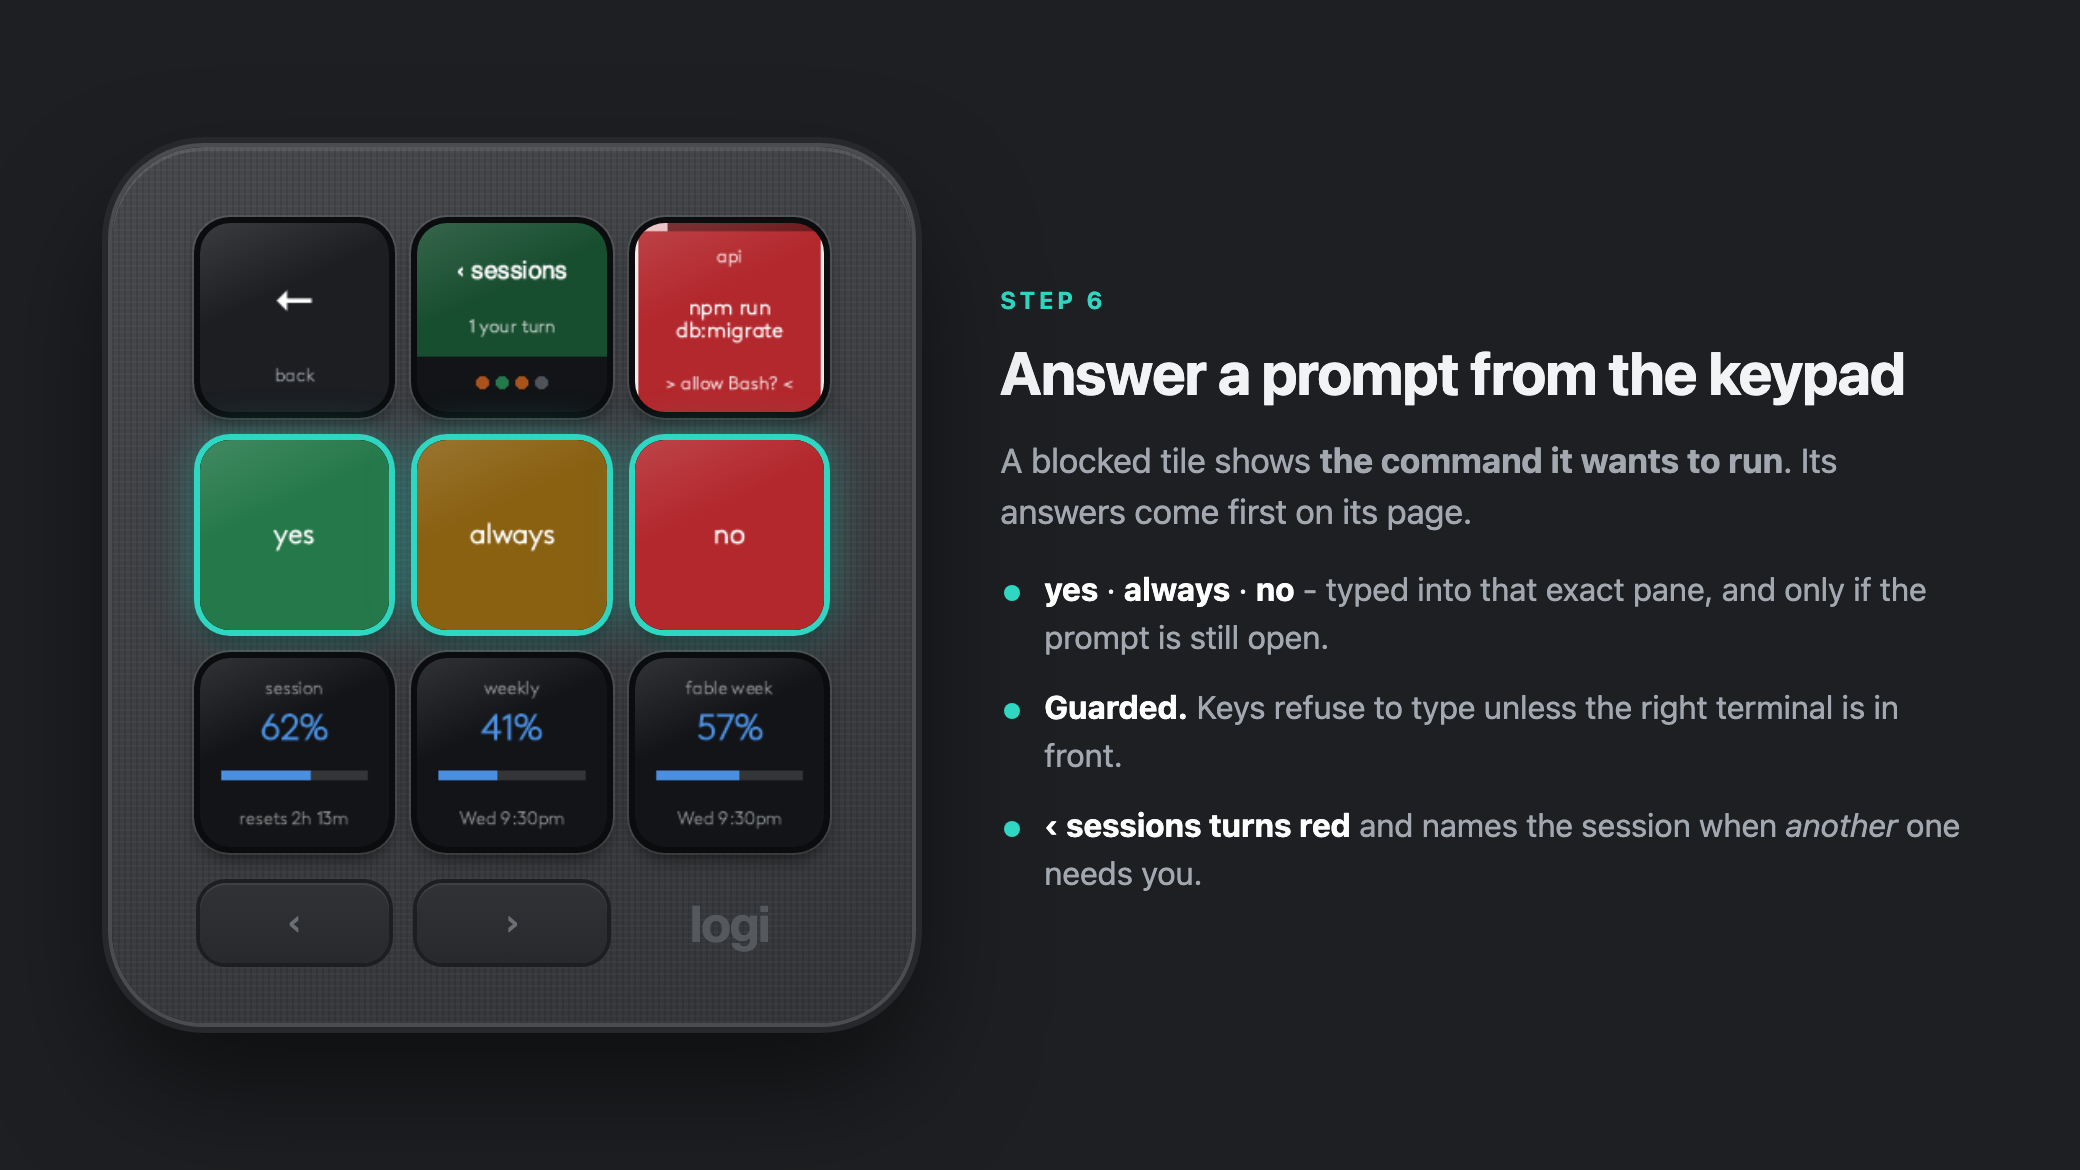
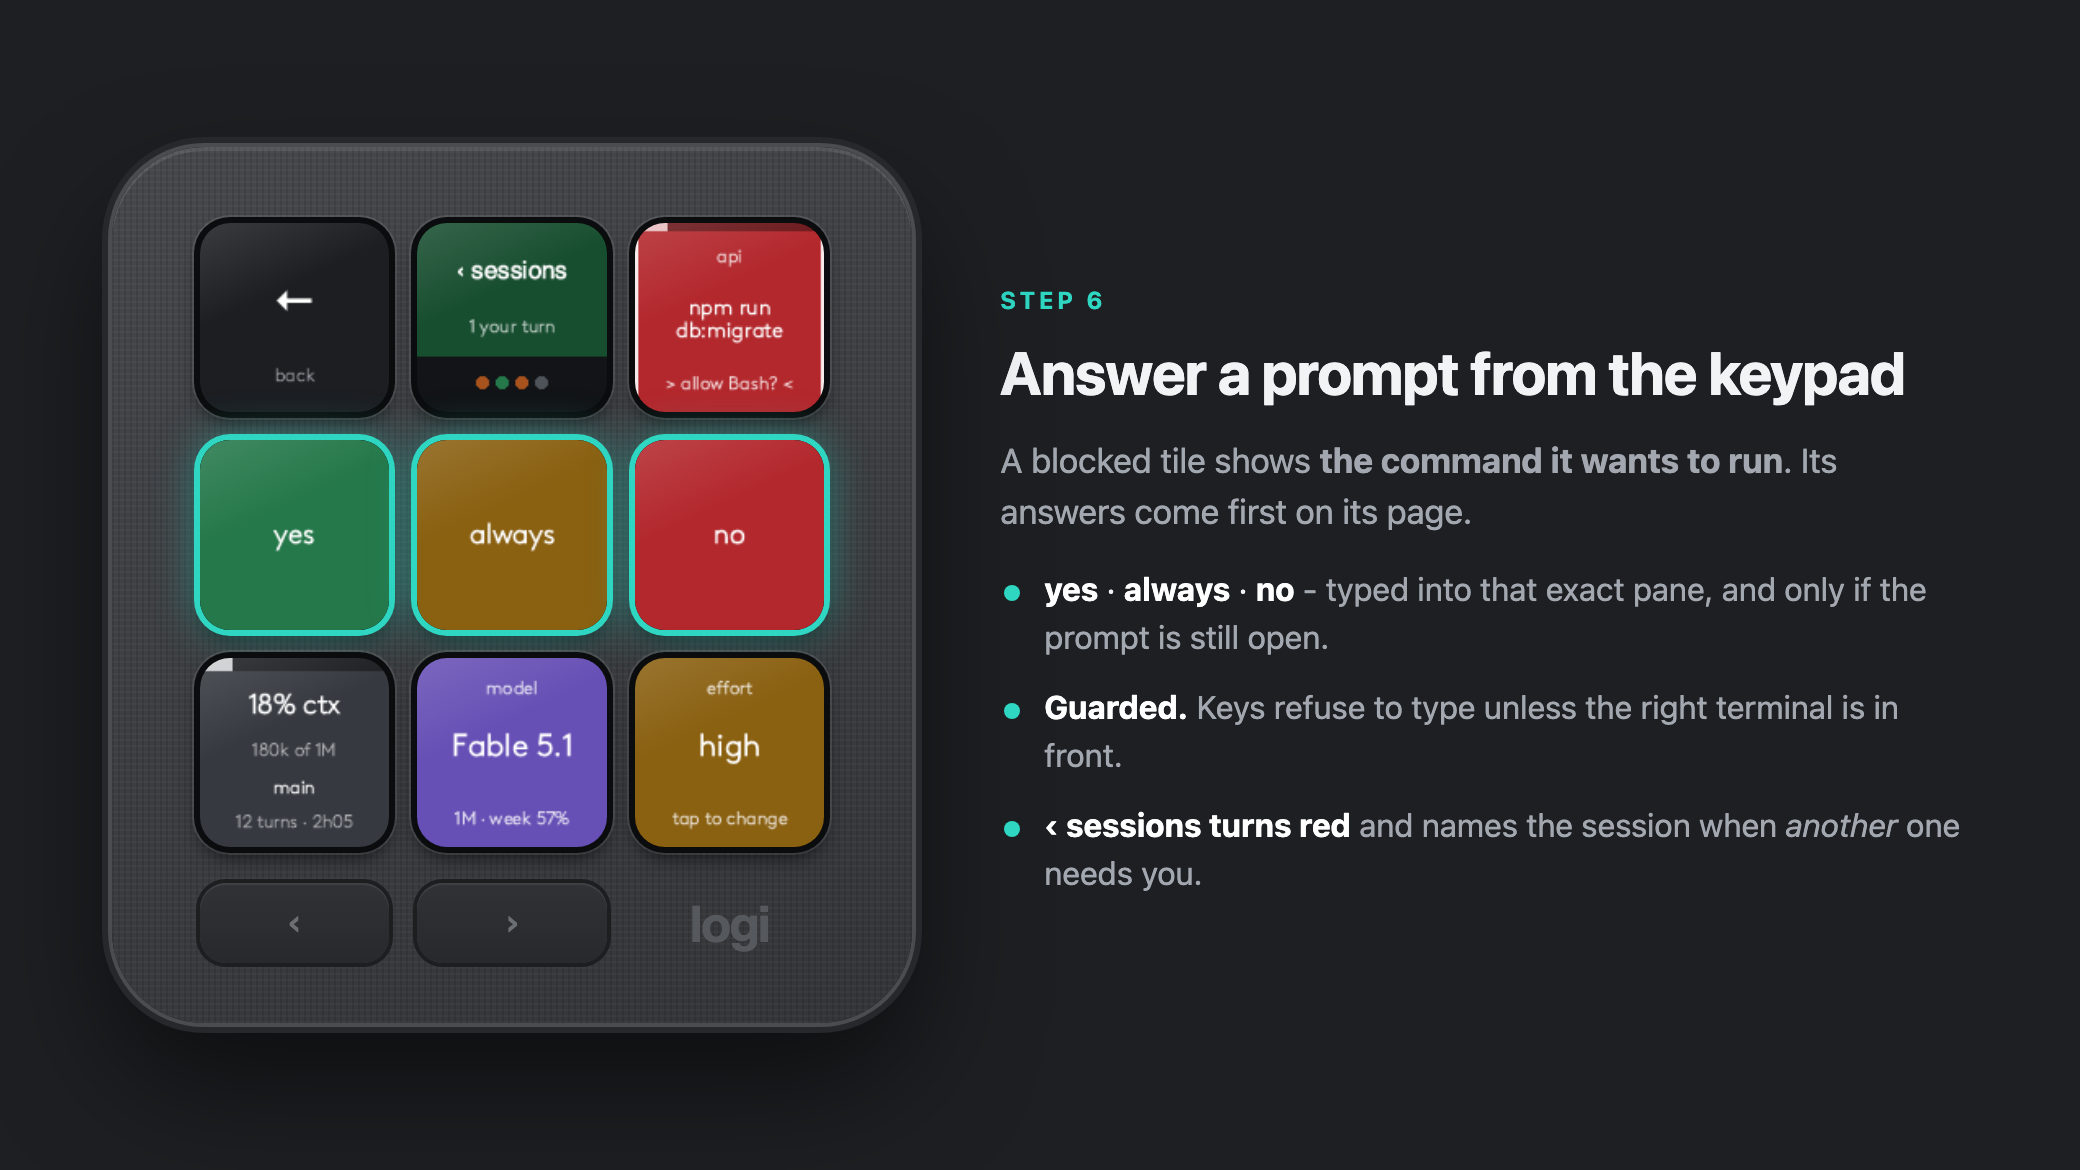
Session page keeps all its keys; the usage row follows them
Putting the usage row on a session's first page pushed info, esc and /compact
to page two. The page is back to tile, info, model, effort, mode and the
command keys; the model key now carries its model's weekly figure, and the
usage row comes after the page's own keys.

Changed region(s): [[0.0938, 0.5538, 0.4062, 0.7385]]

diff --git a/docs/steps/steps.html b/docs/steps/steps.html
@@ -171,15 +171,15 @@
     </div>
   </section>
 
-  <section class="scene" id="page" data-tiles="page" data-pick="4,5,6,9">
+  <section class="scene" id="page" data-tiles="page" data-pick="4,5,6,7">
     <div>
       <span class="step">Step 5</span>
       <h2>Press a session: its own page</h2>
       <p>Everything about one session, and everything about it you can change.</p>
       <ul>
-        <li><b>model · effort · mode</b> <span>- tap to step through the choices.</span></li>
-        <li><b>The bottom row</b> <span>is plan usage, as in the list - but the third key is the weekly window of <i>this session's model</i>.</span></li>
-        <li><b>Page two</b> <span>- info (context in % and tokens, branch, turns, age) and your own command keys.</span></li>
+        <li><b>info</b> <span>- context in % and tokens, branch, turns, age.</span></li>
+        <li><b>model · effort · mode</b> <span>- tap to step through the choices. The model key also says how much of <i>that model's</i> weekly window is gone.</span></li>
+        <li><b>Next page</b> <span>- the full usage row: session, weekly, and this session's model.</span></li>
         <li><b>The tile</b> <span>- press to jump to its pane, hold to interrupt it.</span></li>
         <li><b>‹ sessions</b> <span>- back up, with a dot for every other session. Hold it to go straight to the one that needs you most.</span></li>
       </ul>
@@ -211,7 +211,7 @@
     </div>
   </section>
 
-  <section class="scene" id="step" data-tiles="step" data-pick="5">
+  <section class="scene" id="step" data-tiles="step" data-pick="6">
     <div>
       <span class="step">Step 7</span>
       <h2>Tap to change, commit when you stop</h2>

diff --git a/plugin/src/Actions/SessionsFolder.cs b/plugin/src/Actions/SessionsFolder.cs
@@ -13,11 +13,11 @@ namespace Loupedeck.ClaudeDeckPlugin
     //        Press a session to open it; hold one to interrupt it without going in.
     //
     // PAGE   one session: a way back (which also reports on everyone else - see below), its live tile
-    //        (press = jump to its pane), its settings (model, effort, permission mode - tap to step),
-    //        its facts (context, branch, turns, age), then your command keys. While it is blocked on a
-    //        prompt the keypad can answer, the answers come first, straight after the tile. Like the
-    //        list, a page keeps its bottom row for plan usage - here the third key is the weekly
-    //        window of THIS session's model - so it runs to a second page sooner.
+    //        (press = jump to its pane), its facts (context, branch, turns, age), its settings (model,
+    //        effort, permission mode - tap to step), then your command keys. While it is blocked on a
+    //        prompt the keypad can answer, the answers come first, straight after the tile. The
+    //        model key carries the weekly window of THIS session's model; the full usage row - its
+    //        third key that same window - follows the command keys, on the next page.
     //
     // The host keeps the top-left key for its own Back, which leaves the folder entirely; hence the
     // page's own "sessions" key for going up one level. Eight names per page keeps both layers
@@ -180,32 +180,21 @@ namespace Loupedeck.ClaudeDeckPlugin
             {
                 list.Add("p:lowpri");
             }
-            // A question with more answers than fit above the usage row gets the whole page instead:
-            // answers split across two pages are worse than a minute without the numbers.
-            if (!DeckConfig.PageUsageRow || answers.Count > KeysPerPage - 5)
-            {
-                list.AddRange(new[] { "p:info", "p:model", "p:effort", "p:mode" });
-                list.AddRange(DeckConfig.Keys.Select((_, i) => $"p:k:{i}"));
-                return list;
-            }
-
-            // With the usage row a page is five keys over three, so what you change comes before
-            // what you only read: the settings share the first page with the tile, and the facts and
-            // your own keys follow. Answers, when there are any, take the settings' place.
-            list.AddRange(new[] { "p:model", "p:effort", "p:mode", "p:info" });
+            list.AddRange(new[] { "p:info", "p:model", "p:effort", "p:mode" });
             list.AddRange(DeckConfig.Keys.Select((_, i) => $"p:k:{i}"));
 
-            var perPage = KeysPerPage - 3;
-            var paged = new List<String>();
-            for (var i = 0; i < list.Count; i += perPage)
+            // Plan usage goes after everything else, never instead of it: padded so that it is the
+            // bottom row of whichever page it lands on - page two, with the default keys.
+            if (DeckConfig.PageUsageRow)
             {
-                var keys = list.Skip(i).Take(perPage).ToList();
-                paged.AddRange(keys);
-                paged.AddRange(Enumerable.Range(keys.Count, perPage - keys.Count).Select(n => $"x:page:{i}:{n}"));
-                paged.AddRange(Enumerable.Range(0, 3).Select(n => $"p:u:{n}:{i}"));
+                var row = KeysPerPage - 3;
+                var used = list.Count % KeysPerPage;
+                var pad = used <= row ? row - used : KeysPerPage - used + row;
+                list.AddRange(Enumerable.Range(0, pad).Select(n => $"x:page:{n}"));
+                list.AddRange(Enumerable.Range(0, 3).Select(n => $"p:u:{n}"));
             }
 
-            return paged;
+            return list;
         }
 
         public override IEnumerable<String> GetButtonPressActionNames(DeviceType deviceType) =>

diff --git a/plugin/src/Sessions/Settings.cs b/plugin/src/Sessions/Settings.cs
@@ -63,7 +63,15 @@ namespace Loupedeck.ClaudeDeckPlugin
 
         public override String Hint(SessionInfo s) => s.Selected.OneM ? "model · 1M" : "model";
 
-        public override String Detail(SessionInfo s) => s.Selected.OneM ? "1M context" : "tap to change";
+        // How much of this model's own weekly window is gone, when the plan keeps one for it.
+        public override String Detail(SessionInfo s)
+        {
+            UsageProbe.Wanted();
+            var week = UsageStore.ModelWindow(s);
+            return week != null ? (s.Selected.OneM ? $"1M · week {week.Percent:0}%" : $"week {week.Percent:0}%")
+                : s.Selected.OneM ? "1M context"
+                : "tap to change";
+        }
 
         public override Boolean Apply(SessionInfo s, Int32 from, Int32 to) =>
             to >= 0 && to < DeckConfig.Models.Count && Deck.SwitchModel(s, DeckConfig.Models[to]);

diff --git a/README.md b/README.md
@@ -27,7 +27,7 @@ Every tile below was drawn by the plugin's own renderer (`tools/make-steps.sh` r
 |---|---|
 | <img src="docs/steps/01-install.png" alt="Step 1: install with one command."> | <img src="docs/steps/02-place.png" alt="Step 2: drag the keys onto the keypad in Logi Options+."> |
 | <img src="docs/steps/03-main.png" alt="Step 3: the main page with one session blocked."> | <img src="docs/steps/04-calm.png" alt="The main page when nothing needs you."> |
-| <img src="docs/steps/05-list.png" alt="Step 4: the sessions list, five sessions above the usage row."> | <img src="docs/steps/06-page.png" alt="Step 5: one session's page: model, effort and mode over a usage row for its model."> |
+| <img src="docs/steps/05-list.png" alt="Step 4: the sessions list, five sessions above the usage row."> | <img src="docs/steps/06-page.png" alt="Step 5: one session's page with info, model, effort and mode; the model key shows that model's weekly usage."> |
 | <img src="docs/steps/07-answer.png" alt="Step 6: a blocked session's page with yes, always and no keys."> | <img src="docs/steps/08-question.png" alt="A multiple-choice question with the real options on the keys."> |
 | <img src="docs/steps/09-step.png" alt="Step 7: tap to step, with a countdown bar."> | <img src="docs/steps/10-apps.png" alt="Step 8: the app switcher with icons and a session badge."> |
 
@@ -79,7 +79,8 @@ The list inside **Claude Sessions** keeps its bottom row for your plan:
 
 **The third key** is a per-model weekly window - `Current week (Fable)` on the usage page - when your
 plan keeps one. In the list it is whichever is fullest; **on a session's page it is the one that counts
-that session's model.** When there is no such window (or none for that model), it shows pace.
+that session's model** - there the row comes after the page's own keys, on the next page, and the
+model key carries the same figure (`week 57%`) so it is in sight without paging. When there is no such window (or none for that model), it shows pace.
 
 **Pace** answers "do I make it to the reset?". From how much of the five-hour window has gone and how
 much you have used, it projects where you land: `~85% by the reset` in green if you make it, or
@@ -110,7 +111,7 @@ does when you type `/usage`.
 - The probe runs from `~/.claude/deck`, which leaves one empty folder for that path under
   `~/.claude/projects`. The hook ignores it, so it never appears as a session.
 - The same three keys exist for the main page under **Usage**. `"usageRow": false` gives the list all
-  eight keys back; `"pageUsageRow": false` does the same for a session's page.
+  eight keys back; `"pageUsageRow": false` leaves the row off a session's page.
 
 ## Two layers
 
@@ -122,23 +123,21 @@ one and you are on that session's own page:**
 │  ‹ Back   │ ‹ sessions│  the tile │   ‹ sessions  up one level - and the other sessions' way of
 │ (Options+)│  ● ● ●    │ Edit 2:31 │                 tapping you on the shoulder (see below)
 ├───────────┼───────────┼───────────┤   the tile    live; press = jump to its pane, hold = interrupt
-│   model   │  effort   │   mode    │   model       tap to step (see Model switch)
-│ Fable 5.1 │   high    │ auto-edit │   effort      auto · low · medium · high · xhigh · max
-│ 1M context│           │           │   mode        ask · auto-edit · plan · [bypass] · [auto]
-├───────────┼───────────┼───────────┤
-│  session  │  weekly   │fable week │   plan usage, as under the list - but the third key is the
-│    88%    │    65%    │    57%    │   weekly window of THIS session's model
+│  32% ctx  │   model   │  effort   │   info        context % and tokens, branch, turns, age
+│ 317k of 1M│ Fable 5.1 │   high    │   model       tap to step (see Model switch); underneath, how
+│ feat/hero │1M·week 57%│           │               much of THAT model's weekly window is gone
+├───────────┼───────────┼───────────┤   effort      auto · low · medium · high · xhigh · max
+│   mode    │    esc    │ /compact  │   mode        ask · auto-edit · plan · [bypass] · [auto]
+│ auto-edit │           │           │   then your command keys; more on the next page ▶
 └───────────┴───────────┴───────────┘
-  page two ▶  info (context % and tokens, branch, turns, age) · esc · /compact · your other keys,
-              over the same usage row
+  next page ▶  any further command keys, then the usage row along the bottom:
+               session · weekly · this session's model (fable week 57%)
 ```
 
-`"pageUsageRow": false` drops the usage row from the page and puts info, the settings and your keys
-back on one page of eight.
+`"pageUsageRow": false` leaves the usage row off the session's page.
 
 While the session is **blocked**, the answers come first, straight after the tile: **yes / always / no**
-for a permission prompt, the **actual option labels** for a multiple-choice question. (A question with
-four or more options takes the usage row's keys too, rather than splitting its answers over two pages.)
+for a permission prompt, the **actual option labels** for a multiple-choice question.
 
 **While you are inside one session, the `‹ sessions` key watches the rest.** It blinks **red** with
 the name - `web-app needs you` - when another session is blocked on you (`2 need you` for several),
